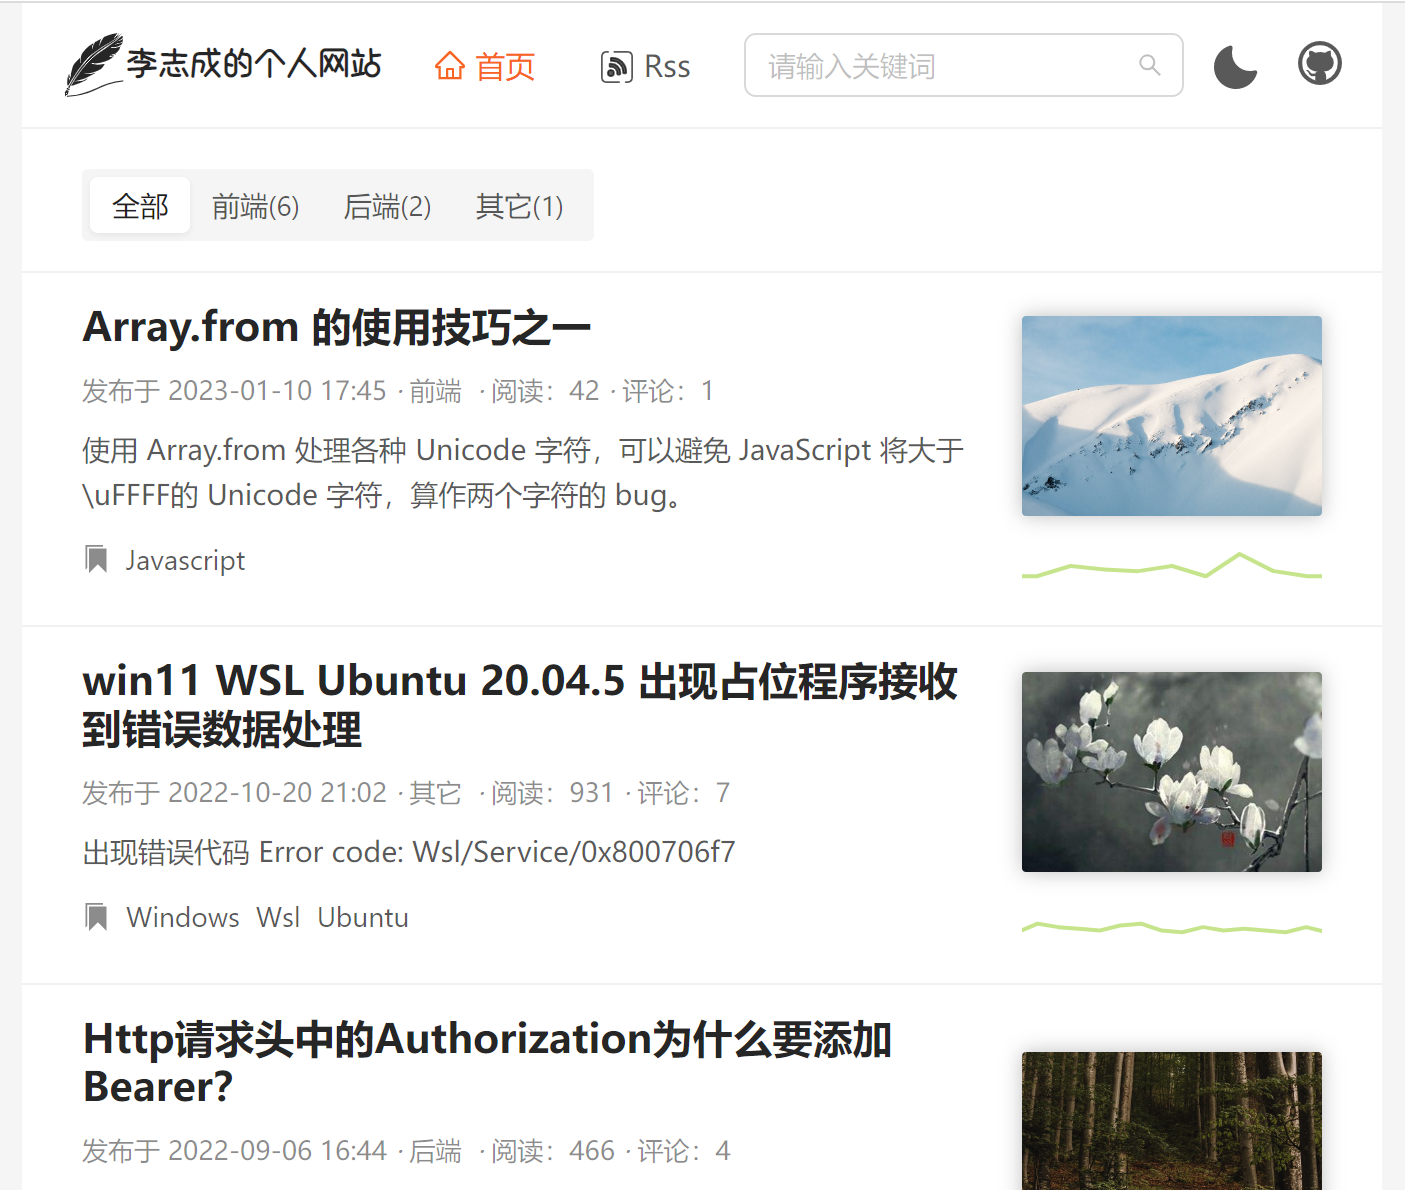
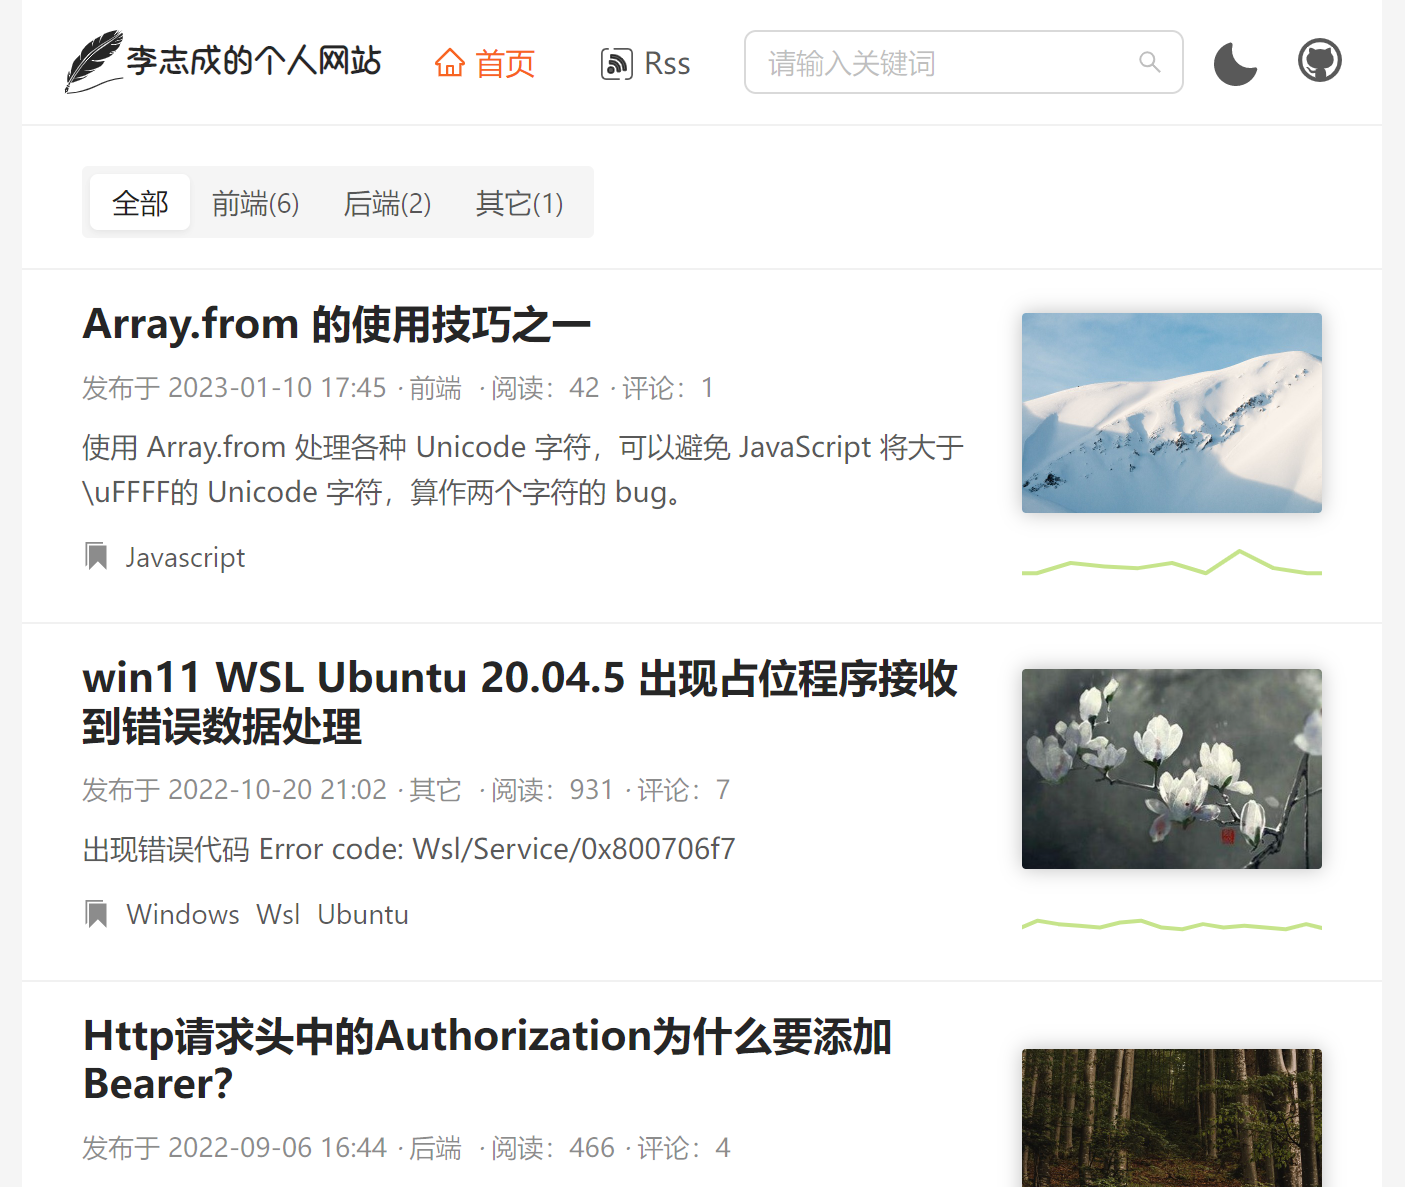
docs: update

diff --git a/README.md b/README.md
@@ -11,7 +11,10 @@
 
 </div>
 
-![博客首页](https://github.com/bs32g1038/node-blog/blob/master/docs/images/home.png?raw=true)
+<p align="center" dir="auto">
+<img src="https://github.com/bs32g1038/node-blog/raw/master/docs/images/home.png?raw=true" alt="博客首页" style="max-width: 100%;width: 620px;">
+</p>
+
 
 * **preview :** [https://www.lizc.net](https://www.lizc.net "blog")
 
